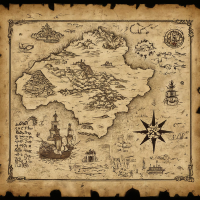
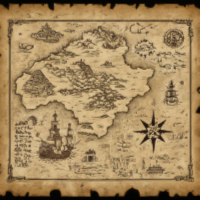
- Restructured some sizes - Reduced the border radius of the images - Cleaned up the HTML

diff --git a/styles.css b/styles.css
@@ -35,12 +35,12 @@ a:hover {
 }
 
 img {
-    border-radius: 25px;
+    border-radius: 14px;
 }
 
 .hero-section {
     padding-right: 40px;
-    max-width: 800px;
+    max-width: 780px;
 }
 
 .header-logo {
@@ -71,6 +71,7 @@ svg:hover {
 .main-title {
     color: #d6ddda;
     font-size: 48px;
+    max-width: 520px;
     font-weight: bolder;
     padding-bottom: 20px;
 }
@@ -79,6 +80,7 @@ svg:hover {
     color:#db0a1f;
     font-size: 18px;
     padding-bottom: 20px;
+    max-width: 540px;
 }
 
 .hero-button {
@@ -119,7 +121,7 @@ svg:hover {
 
 .image-space {
     border: 2px solid #d6ddda;
-    border-radius: 25px;
+    border-radius: 14px;
     margin-bottom: 10px;
     width: 200px;
     height: 200px;
@@ -130,7 +132,6 @@ svg:hover {
     justify-content: center;
     align-items: center;
     flex-direction: column;
-    max-width: 200px;
     transition: all 0.32s ease-in-out;
 }
 
@@ -186,6 +187,7 @@ svg:hover {
     border-radius: 12px;
     font-weight: bold;
     font-size: 18px;
+    width: 190px;
 }
 
 .container-button:hover {

diff --git a/index.html b/index.html
@@ -29,7 +29,10 @@
         <div class="main-section1">
             <div class="hero-section">
                 <div class="main-title"> Whispers of Fortune Lure the Daring </div>
-                <div class="hero-subtext"> The shackles of boredom be cast aside, for the Tempest Fleet sets sail for the legendary Mar de Névoa! The wind whispers tales of uncharted waters and mythical beasts, and our anchor yearns to find purchase in the unmapped depths. </div>
+                <div class="hero-subtext"> 
+                    The shackles of boredom be cast aside, for the Tempest Fleet sets sail for the legendary Mar de Névoa! 
+                    The wind whispers tales of uncharted waters and mythical beasts, and our anchor yearns to find purchase in the unmapped depths. 
+                </div>
                 
                 <button class="hero-button">
                     Come Aboard
